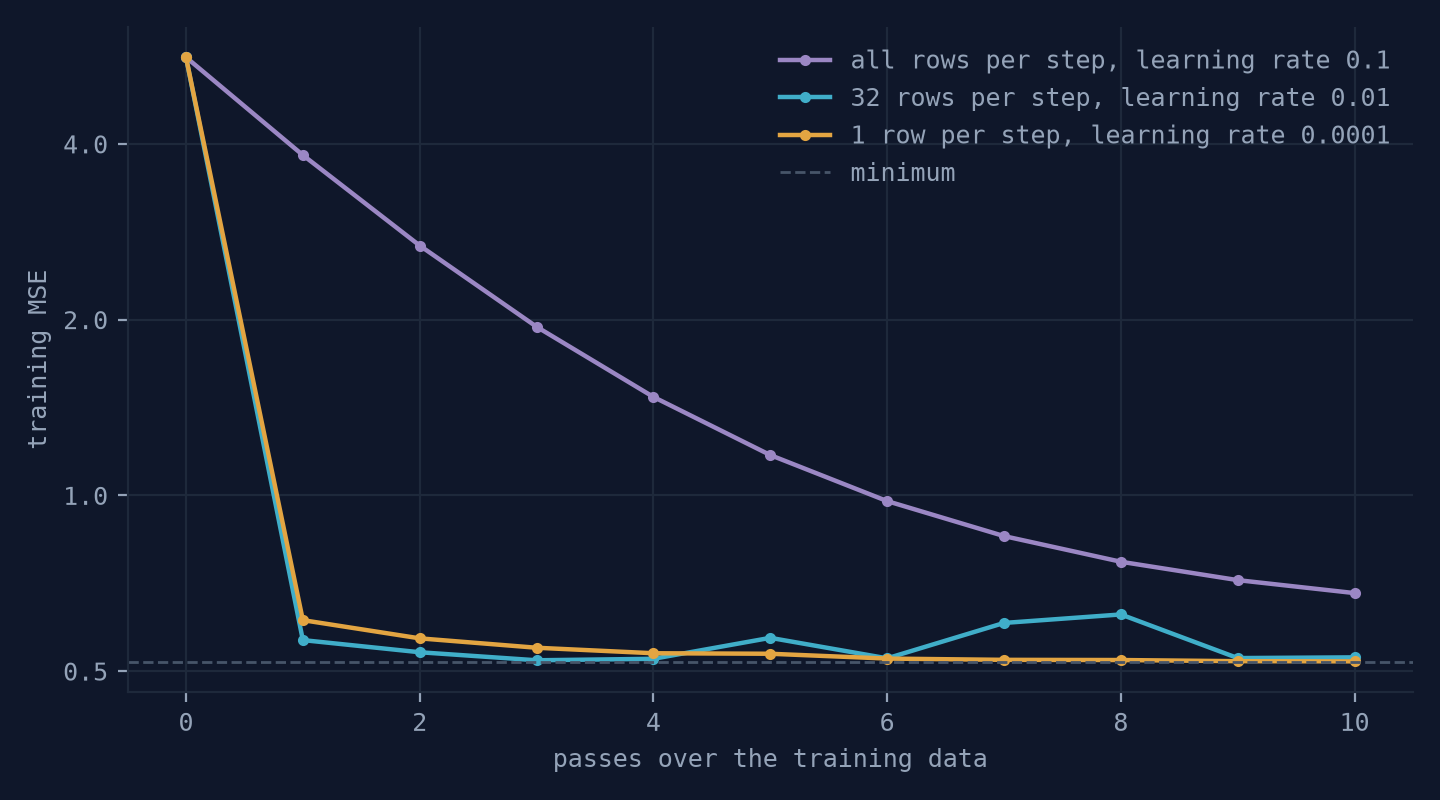
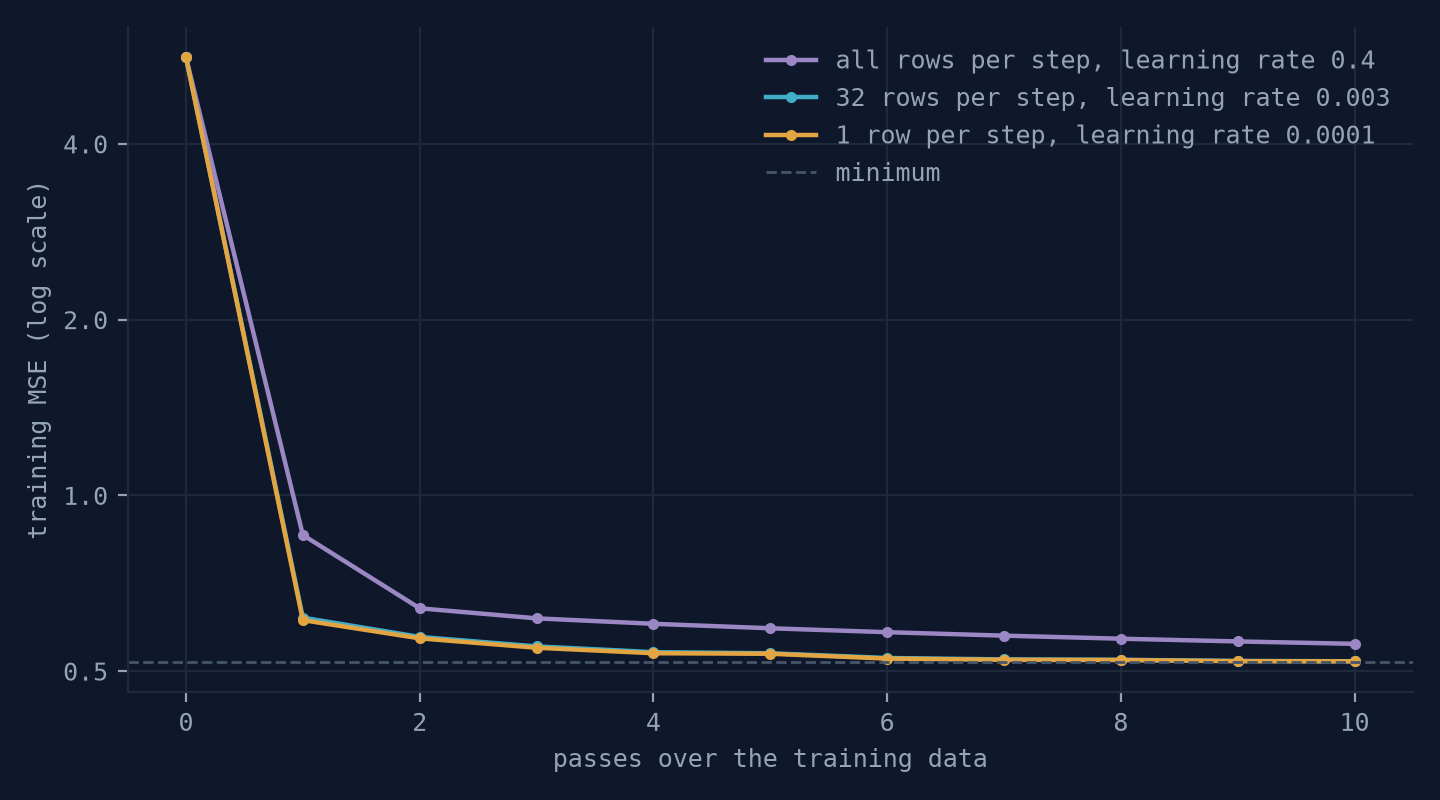
Gradient descent: equal-scale loss plot, scaling split into its two parts, tuned batch comparison, limit and clipping checks

diff --git a/02-gradient-descent/experiments.py b/02-gradient-descent/experiments.py
@@ -126,6 +126,11 @@ for start, color in ((-2.0, TEAL), (2.0, PLUM)):
     ax.plot(shown, g(shown), color=color, lw=1, alpha=0.6)
     ax.scatter(shown, g(shown), color=color, s=14, zorder=3,
                label=f"start at {start:g}: ends at x = {p[-1]:.2f}, g = {g(p[-1]):.2f}")
+peak = float(min(np.roots([4, 0, -6, 1]), key=lambda r: abs(r)).real)
+R["two_valleys"]["peak"] = {"x": peak, "value": float(g(peak))}
+ax.scatter([peak], [g(peak)], color=AMBER, s=30, zorder=4)
+ax.annotate(f"slope is also 0 here (x = {peak:.2f})", (peak, g(peak)), xytext=(peak - 0.9, g(peak) + 1.6),
+            color=MUTED, arrowprops={"arrowstyle": "-", "color": FAINT})
 ax.set_xlabel("x")
 ax.set_ylabel("g(x) = x⁴ - 3x² + x")
 ax.legend(loc="upper center")
@@ -147,8 +152,8 @@ grad_check = float(np.max(np.abs(
 
 second_moment = np.array([[np.mean(income**2), income.mean()], [income.mean(), 1.0]])
 raw_runs, raw_paths = {}, {}
-for lr in (0.01, 0.05, 0.06):
-    p = gradient_descent(mse_gradient(income, y_tr), [0.0, 0.0], lr, steps=5000)
+for lr in (0.01, 0.05, 0.0512, 0.0514, 0.06):
+    p = gradient_descent(mse_gradient(income, y_tr), [0.0, 0.0], lr, steps=20000)
     ok = bool(np.all(np.isfinite(p[-1])))
     raw_paths[lr] = p
     raw_runs[str(lr)] = {
@@ -174,6 +179,14 @@ for lr in (0.01, 0.05, 0.4):
         "slope_raw_units": float(slope_raw), "intercept_raw_units": float(p[-1][1] - slope_raw * mu1),
     }
 
+parts = {}
+for name, v in (("raw", income), ("mean_subtracted", income - mu1),
+                ("divided_by_std", income / sd1), ("standardized", z)):
+    r = LinearRegression().fit(v, y_tr)
+    p = gradient_descent(mse_gradient(v, y_tr), [0.0, 0.0], 0.01, steps=5000)
+    parts[name] = {"steps_to_direct_solution": steps_to(p, np.array([r.coef_[0], r.intercept_])),
+                   "feature_mean": float(v.mean()), "feature_std": float(v.std())}
+
 R["model"] = {
     "train_rows": len(income),
     "direct": {"slope": float(direct[0]), "intercept": float(direct[1])},
@@ -182,6 +195,7 @@ R["model"] = {
     "income_mean": mu1, "income_std": sd1,
     "raw": {"lr_limit": float(1 / np.linalg.eigvalsh(second_moment)[-1]), "runs": raw_runs},
     "standardized": {"runs": std_runs},
+    "scaling_parts_lr_0.01": parts,
 }
 
 
@@ -196,6 +210,7 @@ def bowl(ax, x, target, path, w_range, b_range, title):
     ax.scatter(*target, color=AMBER, s=40, zorder=4)
     ax.set_xlim(*w_range)
     ax.set_ylim(*b_range)
+    ax.set_aspect("equal")
     ax.set_xlabel("weight")
     ax.set_ylabel("bias")
     ax.set_title(title, loc="left", fontsize=9, color=MUTED)
@@ -204,10 +219,10 @@ def bowl(ax, x, target, path, w_range, b_range, title):
 
 n_raw = raw_runs["0.01"]["steps_to_direct_solution"]
 n_std = std_runs["0.01"]["steps_to_direct_solution"]
-fig, axes = plt.subplots(1, 2, figsize=(7.6, 4.0))
-bowl(axes[0], income, direct, raw_paths[0.01][: n_raw + 1], (-0.1, 0.9), (-0.5, 1.0),
+fig, axes = plt.subplots(1, 2, figsize=(7.6, 4.6))
+bowl(axes[0], income, direct, raw_paths[0.01][: n_raw + 1], (-0.3, 1.2), (-0.6, 1.2),
      f"raw income: {n_raw:,} steps")
-bowl(axes[1], z, direct_z, std_paths[0.01][: n_std + 1], (-0.4, 1.6), (-0.4, 3.2),
+bowl(axes[1], z, direct_z, std_paths[0.01][: n_std + 1], (-1.0, 2.6), (-0.4, 3.2),
      f"standardized income: {n_std} steps")
 save(fig, "loss-bowl.png")
 
@@ -224,14 +239,36 @@ R["all_features"] = {
     "mse": mse(Z, y_tr, p8[-1]), "best_mse": mse(Z, y_tr, direct8),
 }
 
+# The same model on raw and on mean-subtracted features, where the ranges differ.
+R["all_features"]["feature_std"] = dict(zip(names, map(float, sd)))
+R["all_features"]["unscaled"] = {}
+for name, V in (("raw", X_tr), ("mean_subtracted", X_tr - mu)):
+    runs = {}
+    for lr in (1e-5, 1e-6, 1e-7):
+        p = gradient_descent(mse_gradient(V, y_tr), np.zeros(9), lr, steps=2000)
+        runs[str(lr)] = mse(V, y_tr, p[-1]) if np.all(np.isfinite(p[-1])) else None
+    R["all_features"]["unscaled"][name] = runs
+
 # --- how many rows per step -------------------------------------------------
 EPOCHS = 10
 n = len(Z)
+LRS = (0.4, 0.1, 0.03, 0.01, 0.003, 0.001, 0.0003, 0.0001)
+col, row = np.unravel_index(np.argmax(np.abs(Z)), Z.shape)[::-1]
 R["batches"] = {"epochs": EPOCHS, "best_mse": R["all_features"]["best_mse"], "runs": {},
-                "largest_standardized_value": float(np.abs(Z).max())}
+                "learning_rates_tried": list(LRS), "grid": {},
+                "largest_standardized_value": float(np.abs(Z).max()),
+                "largest_standardized_feature": names[col]}
 fig, ax = plt.subplots(figsize=(7.2, 4.0))
-for (size, lr), color in zip(((n, 0.1), (32, 0.01), (1, 0.0001)), (PLUM, TEAL, AMBER)):
-    _, history = minibatch_gradient_descent(Z, y_tr, lr, EPOCHS, size)
+for size, color in zip((n, 32, 1), (PLUM, TEAL, AMBER)):
+    # Try every learning rate and keep the one with the lowest loss after 10 passes.
+    tried = {lr: minibatch_gradient_descent(Z, y_tr, lr, EPOCHS, size)[1] for lr in LRS}
+    R["batches"]["grid"][str(size)] = {
+        str(lr): {"mse_after_10": h[-1], "lowest_after_first_pass": float(min(h[1:])),
+                  "highest_after_first_pass": float(max(h[1:]))} if np.isfinite(h[-1]) else None
+        for lr, h in tried.items()
+    }
+    lr = min((lr for lr in LRS if np.isfinite(tried[lr][-1])), key=lambda lr: tried[lr][-1])
+    history = tried[lr]
     label = "all rows" if size == n else f"{size} row" + ("s" if size > 1 else "")
     R["batches"]["runs"][str(size)] = {
         "label": label, "lr": lr, "steps_per_pass": int(np.ceil(n / size)),
@@ -246,15 +283,15 @@ ax.set_yticks([0.5, 1, 2, 4])
 ax.set_yticks([], minor=True)
 ax.get_yaxis().set_major_formatter(matplotlib.ticker.ScalarFormatter())
 ax.set_xlabel("passes over the training data")
-ax.set_ylabel("training MSE")
+ax.set_ylabel("training MSE (log scale)")
 ax.legend()
 save(fig, "batch-sizes.png")
 
-# Larger learning rates for the smaller batches, to record that they fail.
-R["batches"]["diverging"] = {}
-for size, lr in ((32, 0.1), (1, 0.001)):
-    _, history = minibatch_gradient_descent(Z, y_tr, lr, 2, size)
-    R["batches"]["diverging"][str(size)] = {"lr": lr, "mse_after_1": history[1]}
+# 32 rows diverged at 0.03. Limit every standardized value to [-5, 5] and try again,
+# to check that the few extreme rows are the cause.
+_, clipped = minibatch_gradient_descent(np.clip(Z, -5, 5), y_tr, 0.03, EPOCHS, 32)
+R["batches"]["clipped_32_rows_lr_0.03"] = {"mse_after_1": clipped[1], "mse_after_10": clipped[-1],
+                                           "rows_clipped": int(np.any(np.abs(Z) > 5, axis=1).sum())}
 
 (HERE / "results.json").write_text(json.dumps(R, indent=2))
 print(json.dumps(R, indent=2))

diff --git a/02-gradient-descent/gd.py b/02-gradient-descent/gd.py
@@ -11,12 +11,12 @@ import numpy as np
 def gradient_descent(grad, start, lr: float, steps: int) -> np.ndarray:
     """Returns every position visited, the start included."""
     x = np.array(start, dtype=float)
-    path = [x.copy()]
+    path = [x]
     for _ in range(steps):
         # grad(x) is the slope at the current position.
         # Subtracting it moves x in the direction where the function gets smaller.
         x = x - lr * grad(x)
-        path.append(x.copy())
+        path.append(x)
         if not np.all(np.isfinite(x)):
             break
     return np.array(path)
@@ -66,6 +66,7 @@ def minibatch_gradient_descent(
         order = rng.permutation(n)
         for first in range(0, n, batch_size):
             rows = order[first : first + batch_size]
-            params = params - lr * mse_gradient(X[rows], y[rows])(params)
+            grad = mse_gradient(X[rows], y[rows])
+            params = params - lr * grad(params)
         history.append(mse(X, y, params))
     return params, history
